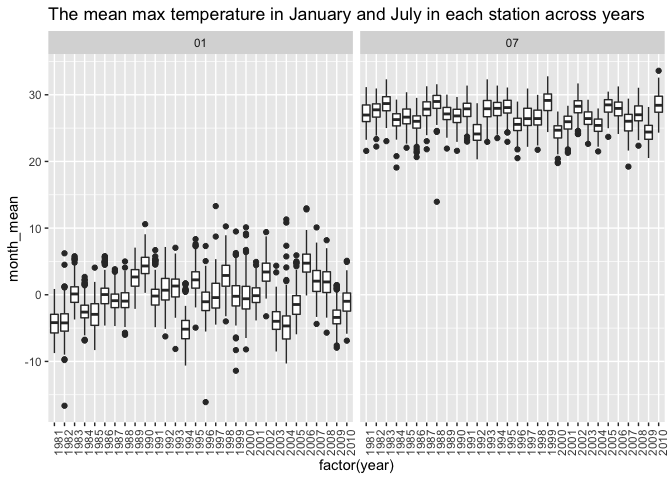
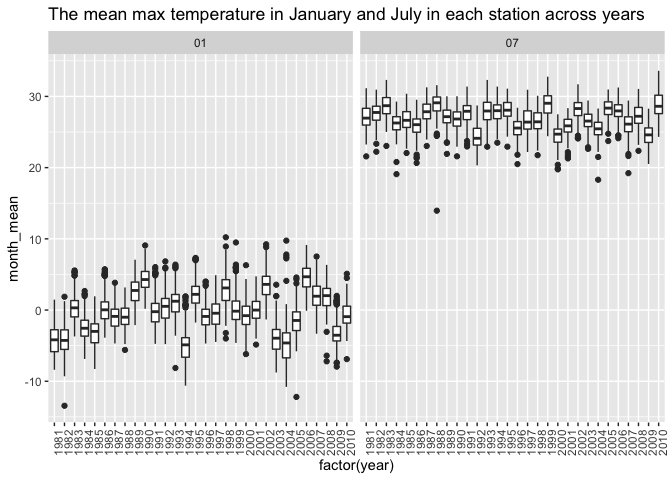
NAs decision changed

diff --git a/p8105_hw3_dz2399.md b/p8105_hw3_dz2399.md
@@ -210,11 +210,10 @@ df_nynoaa <- ny_noaa %>%
   separate(date,into = c("year","month","day")) %>% 
   janitor::clean_names() %>% 
   mutate(tmin=as.numeric(tmin)/10,
-         tmax=as.numeric(tmax)/10) %>% 
-  na.omit()
+         tmax=as.numeric(tmax)/10) 
 ```
 
-The resulting data dimension is 1222433, 9. Id is character variable of the station id. Year, month and day are character variable of the corresponding date. Prcp is the precipitation of tenth of mm. Tmin and T max after the transformation are numeric variable in Celcius. Snow is an integer variable of snowfall in mm. With the regard to NAs, there are lots of NAs in the dataset, I omit all rows that have at least one NA, and the resulting dimesion is still big in enough(greater than 1 million). However, one could also just remove the NAs for the columns they are only interested in to have more observations.
+The resulting data dimension is 2595176, 9. Id is character variable of the station id. Year, month and day are character variable of the corresponding date. Prcp is the precipitation of tenth of mm. Tmin and T max after the transformation are numeric variable in Celcius. Snow is an integer variable of snowfall in mm. With the regard to NAs, there are lots of NAs in the dataset, since there are lots of NAs in the dataset, we would want to omit NAs for only the columns we are interested in, otherwise we would loose lots of data.
 
 #### Do some data cleaning. Create separate variables for year, month, and day. Ensure observations for temperature, precipitation, and snowfall are given in reasonable units. For snowfall, what are the most commonly observed values? Why?
 
@@ -228,7 +227,7 @@ df_nynoaa %>%
 
 |  snow|      obs|
 |-----:|--------:|
-|     0|  1112758|
+|     0|  2008508|
 
 -   The most commonly observed value for snowfall is 0, since in New York it only snows for a couple of times in winter, other times the snowfall would be zero.
 
@@ -237,6 +236,7 @@ df_nynoaa %>%
 ``` r
 df_nynoaa %>% 
   filter(month=='01'|month=='07') %>%
+  filter(!is.na(tmax)) %>% 
   group_by(month,year,id) %>% 
   summarise(month_mean=mean(tmax)) %>%
   ggplot(aes(x=factor(year),y=month_mean))+
@@ -253,12 +253,16 @@ This plot shows that across the years, both January and July have some oscillati
 #### Make a two-panel plot showing (i) tmax vs tmin for the full dataset (note that a scatterplot may not be the best option); and (ii) make a plot showing the distribution of snowfall values greater than 0 and less than 100 separately by year.
 
 ``` r
-plot1 <- ggplot(data=df_nynoaa, aes(x=tmax,y=tmin))+
+df_3_1 <- df_nynoaa %>% 
+  filter(!is.na(tmax),!is.na(tmin)) 
+plot1 <- ggplot(data=df_3_1, aes(x=tmax,y=tmin))+
   geom_hex()+
   ggtitle('tmax vs tmin for the full dataset')+
   theme(legend.position = "bottom")
 
-plot2 <- df_nynoaa %>%
+df_3_2 <- df_nynoaa %>% 
+  filter(!is.na(snow))
+plot2 <- df_3_2 %>%
   filter(snow>0,snow<100) %>%
   ggplot(aes(x=snow, color=year))+
   geom_density( alpha=0.3)+
